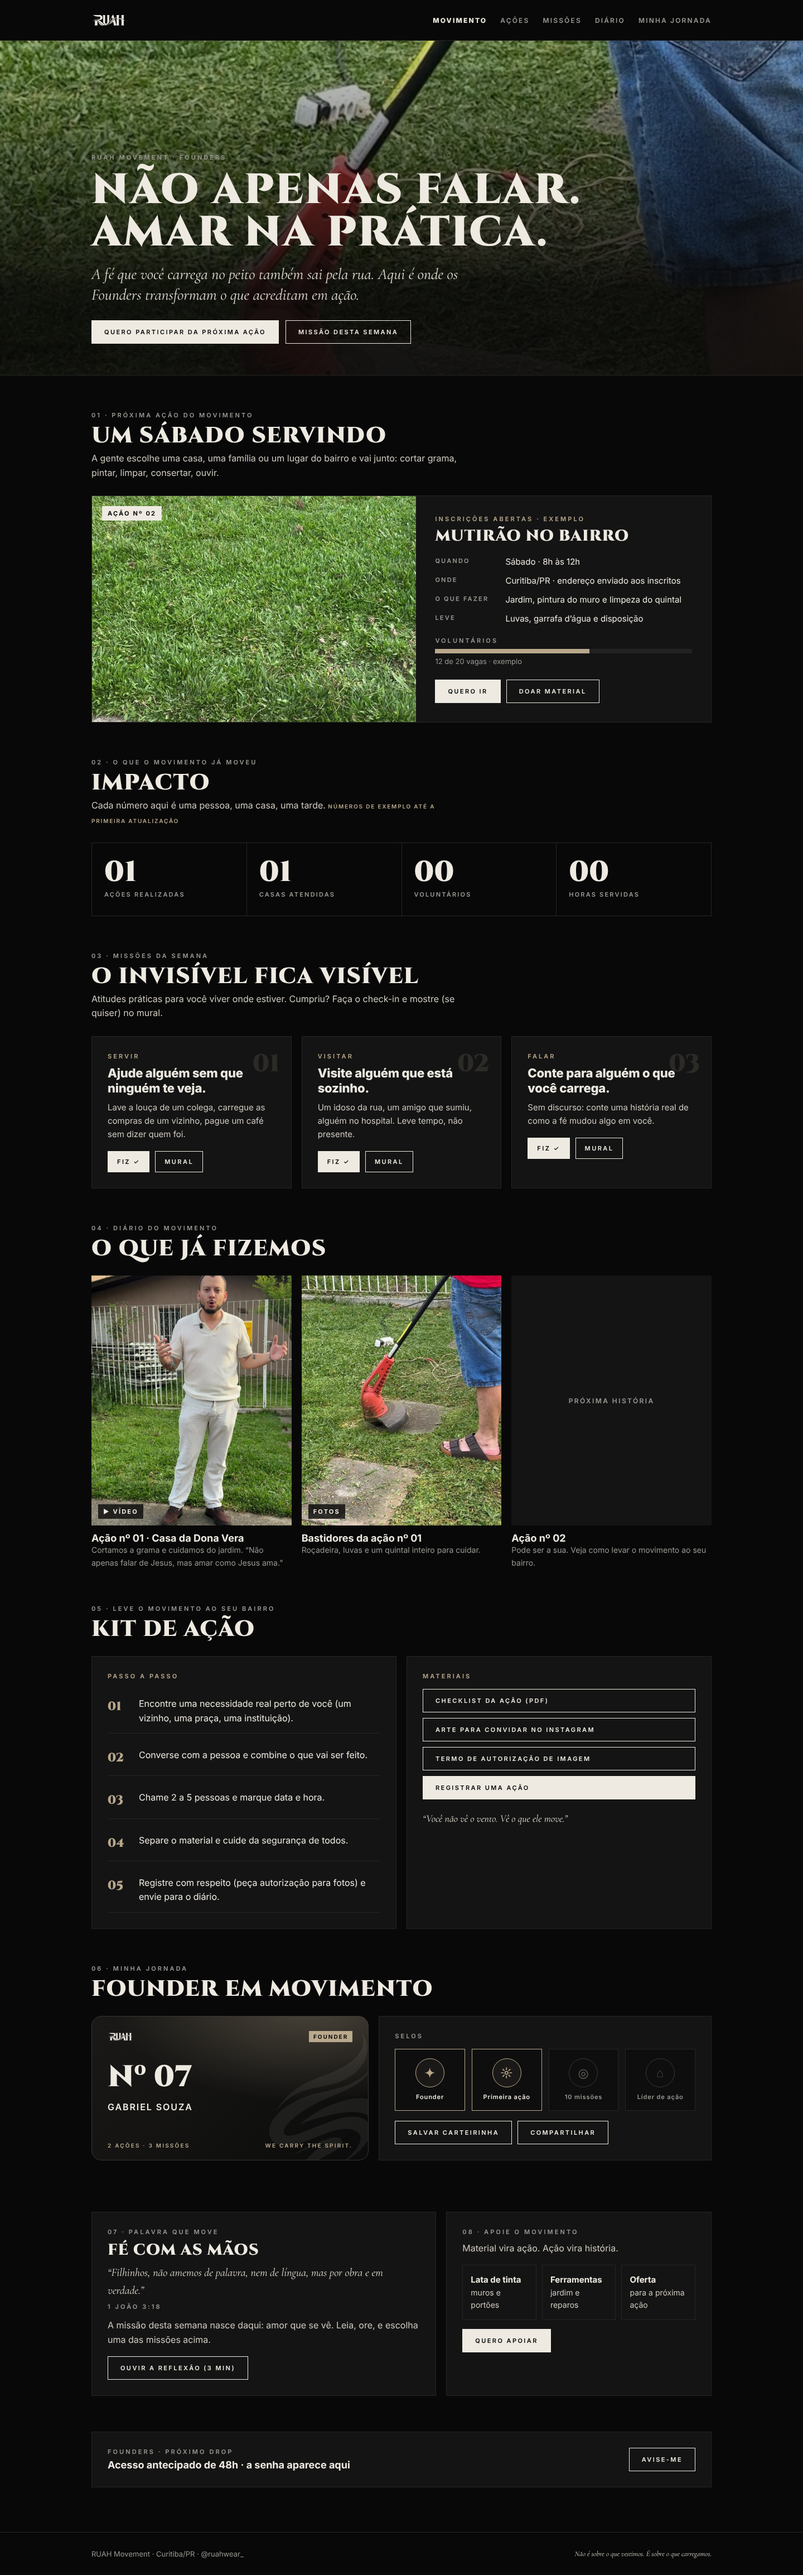
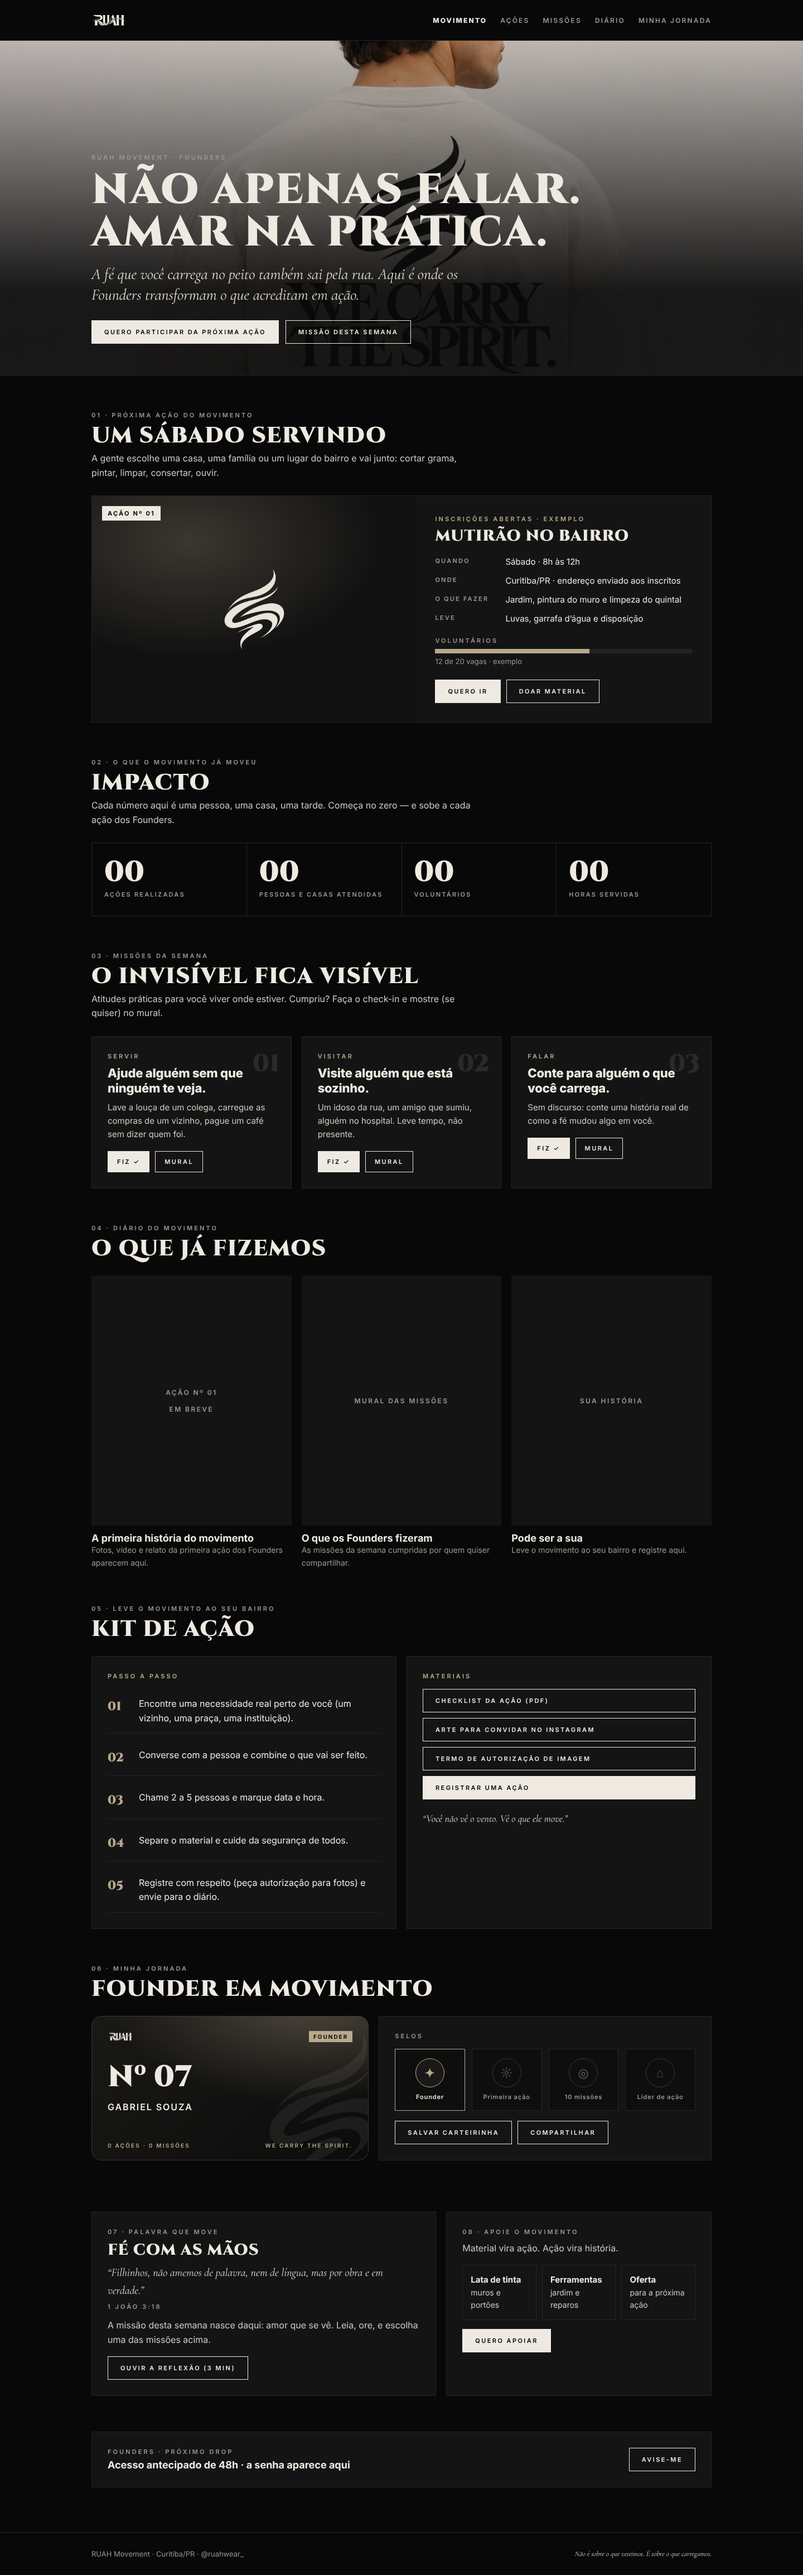
RUAH Founders: remove ação da Dona Vera (não é da RUAH), impacto zerado
Claude-Session: https://claude.ai/code/session_01KxZ3QMQc7vQukPgiLarXU4

diff --git a/ruah/founders/prototipo_movimento.html b/ruah/founders/prototipo_movimento.html
@@ -1,7 +1,7 @@
 <!doctype html><html lang="pt-BR"><head><meta charset="utf-8"><meta name="viewport" content="width=device-width,initial-scale=1">
 <title>RUAH Movement — Founders</title>
 <!-- PROTÓTIPO v2 (16/11): área dos Founders centrada no MOVIMENTO e em ações práticas ("não apenas falar de Jesus, mas amar como Jesus ama").
-     Números de impacto = EXEMPLO (zerados/marcados); a ação na casa da Dona Vera é real (vídeo do Augusto) — confirmar uso. Sem prazo de produção. -->
+     Números de impacto zerados até a 1ª ação real. A ação da Dona Vera NÃO é da RUAH — não usar (Augusto, 16/11). Sem prazo de produção. -->
 <style>
 @font-face{font-family:Cz;font-weight:700;src:url('../fontes/cinzel700.ttf')}@font-face{font-family:Cz;font-weight:900;src:url('../fontes/cinzel900.ttf')}
 @font-face{font-family:CG;font-style:italic;src:url('../fontes/cg400i.ttf')}
@@ -17,11 +17,11 @@
 .card{background:var(--pn);border:1px solid var(--ln);padding:28px}
 header{border-bottom:1px solid var(--ln)}header .w{display:flex;justify-content:space-between;align-items:center;height:72px}header img{height:22px}
 header nav{display:flex;gap:24px;font:600 12px I;letter-spacing:.18em;text-transform:uppercase;color:var(--gy)}header nav b{color:var(--bn)}
-.hero{position:relative;min-height:600px;display:flex;align-items:flex-end;background:linear-gradient(180deg,rgba(8,8,8,.15),rgba(8,8,8,.92) 75%),url('img/acao_grama.jpg') center 30%/cover;border-bottom:1px solid var(--ln)}
+.hero{position:relative;min-height:600px;display:flex;align-items:flex-end;background:linear-gradient(180deg,rgba(8,8,8,.15),rgba(8,8,8,.92) 75%),url('../fotos_produtos/02_WE_CARRY_THE_SPIRIT/02_2_modelo_costas.jpg') center 25%/cover;border-bottom:1px solid var(--ln)}
 .hero .w{padding-bottom:56px;width:100%}.hero h1{font-size:76px;margin:14px 0 18px;max-width:900px}.hero p.it{font-size:28px;max-width:720px;line-height:1.3}
 .sec{padding:64px 0 0}.sec h2{font-size:40px;margin:10px 0 8px}.sec .sub{color:#cfcac0;max-width:680px}
 .next{display:grid;grid-template-columns:1.1fr 1fr;gap:0;margin-top:28px;border:1px solid var(--ln)}
-.next .ph{background:url('img/acao_jardim.jpg') center/cover;min-height:380px;position:relative}.next .ph span{position:absolute;left:18px;top:18px;background:var(--bn);color:var(--bk);font:700 11px I;letter-spacing:.2em;padding:6px 10px}
+.next .ph{background:radial-gradient(500px 300px at 30% 20%,rgba(185,168,140,.25),transparent 70%),#111 url('../marca/logos/simbolo-bone.png') center/120px no-repeat;min-height:380px;position:relative}.next .ph span{position:absolute;left:18px;top:18px;background:var(--bn);color:var(--bk);font:700 11px I;letter-spacing:.2em;padding:6px 10px}
 .next .tx{background:var(--pn);padding:34px}.kv{display:grid;grid-template-columns:110px 1fr;gap:10px 16px;margin:20px 0;font-size:15px}.kv b{font:600 11px I;letter-spacing:.2em;text-transform:uppercase;color:var(--gy);padding-top:3px}
 .bar{height:8px;background:#222;margin:8px 0 4px}.bar i{display:block;height:100%;width:60%;background:var(--tp)}
 .imp{display:grid;grid-template-columns:repeat(4,1fr);gap:1px;background:var(--ln);border:1px solid var(--ln);margin-top:28px}
@@ -64,7 +64,7 @@ footer{border-top:1px solid var(--ln);padding:28px 0;margin-top:80px;color:var(-
  <!-- PRÓXIMA AÇÃO -->
  <section class="sec"><div class="lab">01 · Próxima ação do movimento</div><h2 class="cz">Um sábado servindo</h2>
   <p class="sub">A gente escolhe uma casa, uma família ou um lugar do bairro e vai junto: cortar grama, pintar, limpar, consertar, ouvir.</p>
-  <div class="next"><div class="ph"><span>AÇÃO Nº 02</span></div>
+  <div class="next"><div class="ph"><span>AÇÃO Nº 01</span></div>
    <div class="tx"><div class="lab" style="color:var(--tp)">Inscrições abertas · exemplo</div>
     <h3 class="cz" style="font-size:28px;margin-top:10px">Mutirão no bairro</h3>
     <div class="kv"><b>Quando</b><span>Sábado · 8h às 12h</span><b>Onde</b><span>Curitiba/PR · endereço enviado aos inscritos</span><b>O que fazer</b><span>Jardim, pintura do muro e limpeza do quintal</span><b>Leve</b><span>Luvas, garrafa d’água e disposição</span></div>
@@ -74,8 +74,8 @@ footer{border-top:1px solid var(--ln);padding:28px 0;margin-top:80px;color:var(-
 
  <!-- IMPACTO -->
  <section class="sec"><div class="lab">02 · O que o movimento já moveu</div><h2 class="cz">Impacto</h2>
-  <p class="sub">Cada número aqui é uma pessoa, uma casa, uma tarde. <span class="ex">Números de exemplo até a primeira atualização</span></p>
-  <div class="imp"><div><b>01</b><span>Ações realizadas</span></div><div><b>01</b><span>Casas atendidas</span></div><div><b>00</b><span>Voluntários</span></div><div><b>00</b><span>Horas servidas</span></div></div>
+  <p class="sub">Cada número aqui é uma pessoa, uma casa, uma tarde. Começa no zero — e sobe a cada ação dos Founders.</p>
+  <div class="imp"><div><b>00</b><span>Ações realizadas</span></div><div><b>00</b><span>Pessoas e casas atendidas</span></div><div><b>00</b><span>Voluntários</span></div><div><b>00</b><span>Horas servidas</span></div></div>
  </section>
 
  <!-- MISSÕES -->
@@ -91,9 +91,9 @@ footer{border-top:1px solid var(--ln);padding:28px 0;margin-top:80px;color:var(-
  <!-- DIÁRIO -->
  <section class="sec"><div class="lab">04 · Diário do movimento</div><h2 class="cz">O que já fizemos</h2>
   <div class="diario">
-   <a href="#"><div class="im" style="background-image:url('img/acao_convite.jpg')"><em>▶ VÍDEO</em></div><h4>Ação nº 01 · Casa da Dona Vera</h4><p>Cortamos a grama e cuidamos do jardim. “Não apenas falar de Jesus, mas amar como Jesus ama.”</p></a>
-   <a href="#"><div class="im" style="background-image:url('img/acao_grama.jpg')"><em>FOTOS</em></div><h4>Bastidores da ação nº 01</h4><p>Roçadeira, luvas e um quintal inteiro para cuidar.</p></a>
-   <a href="#"><div class="im" style="background:#141414;display:grid;place-items:center;color:var(--gy);font:600 12px I;letter-spacing:.2em">PRÓXIMA HISTÓRIA</div><h4>Ação nº 02</h4><p>Pode ser a sua. Veja como levar o movimento ao seu bairro.</p></a>
+   <a href="#"><div class="im" style="background:#141414;display:grid;place-items:center;color:var(--gy);font:600 12px I;letter-spacing:.2em;text-align:center;padding:20px">AÇÃO Nº 01<br><br>EM BREVE</div><h4>A primeira história do movimento</h4><p>Fotos, vídeo e relato da primeira ação dos Founders aparecem aqui.</p></a>
+   <a href="#"><div class="im" style="background:#141414;display:grid;place-items:center;color:var(--gy);font:600 12px I;letter-spacing:.2em">MURAL DAS MISSÕES</div><h4>O que os Founders fizeram</h4><p>As missões da semana cumpridas por quem quiser compartilhar.</p></a>
+   <a href="#"><div class="im" style="background:#141414;display:grid;place-items:center;color:var(--gy);font:600 12px I;letter-spacing:.2em">SUA HISTÓRIA</div><h4>Pode ser a sua</h4><p>Leve o movimento ao seu bairro e registre aqui.</p></a>
   </div>
  </section>
 
@@ -113,9 +113,9 @@ footer{border-top:1px solid var(--ln);padding:28px 0;margin-top:80px;color:var(-
  <section class="sec"><div class="lab">06 · Minha jornada</div><h2 class="cz">Founder em movimento</h2>
   <div class="jor">
    <div class="carte"><img class="sim" src="../marca/logos/simbolo-bone.png" alt=""><div style="display:flex;justify-content:space-between;align-items:center"><img src="../marca/logos/logo-bone.png" style="height:16px" alt="RUAH"><span style="font:700 10px I;letter-spacing:.2em;color:var(--bk);background:var(--tp);padding:4px 8px">FOUNDER</span></div>
-    <div class="num">Nº 07</div><div class="nm">Gabriel Souza</div><div class="ft"><span>2 ações · 3 missões</span><span>We carry the spirit.</span></div></div>
+    <div class="num">Nº 07</div><div class="nm">Gabriel Souza</div><div class="ft"><span>0 ações · 0 missões</span><span>We carry the spirit.</span></div></div>
    <div class="card"><div class="lab">Selos</div>
-    <div class="selos"><div class="on"><i>✦</i>Founder</div><div class="on"><i>☼</i>Primeira ação</div><div><i>◎</i>10 missões</div><div><i>⌂</i>Líder de ação</div></div>
+    <div class="selos"><div class="on"><i>✦</i>Founder</div><div><i>☼</i>Primeira ação</div><div><i>◎</i>10 missões</div><div><i>⌂</i>Líder de ação</div></div>
     <div style="margin-top:18px;display:flex;gap:10px;flex-wrap:wrap"><a class="btn" href="#">Salvar carteirinha</a><a class="btn" href="#">Compartilhar</a></div></div>
   </div>
  </section>

diff --git a/CLAUDE.md b/CLAUDE.md
@@ -17,7 +17,7 @@ As regras da seção 1 ("Regras que não podem ser quebradas") valem sempre. Em 
 
 ## Estrutura
 - `ruah/conteudo/PLANO_CONTEUDO_RUAH.md` — plano de conteúdo da RUAH (16/11): 1 post/dia + stories, 4 pilares (Peça, Mensagem, Movimento, Bastidor), semana-modelo, o que o Claude faz × o que o Augusto grava, 14 dias (17–30/11) e decisões pendentes (visual, sessão de fotos). DECIDIDO 16/11: SEM combo "Leve 2" e SEM comunicação de Black Friday na RUAH (nenhum post, story, oferta ou desconto sobre a data).
-- `ruah/founders/` — ÁREA DE MEMBROS DOS FOUNDERS (16/11, pedido do Augusto "área completa"): recomendação = página exclusiva DENTRO da loja Shopify (login da loja; Flow marca cada Founder com a tag "founder" + número), subir sempre como tema NÃO publicado com prévia. Protótipo visual `prototipo_area_founders.html` + `previa_desktop.png`/`previa_celular.png`. Seções: boas-vindas com nome, carteirinha digital (Nº, nome, desde), devocional semanal (versículo, reflexão, desafio, áudio), próximo drop com contagem e senha 48h antes, bastidores, pedido de oração (sigiloso), encontros, grupo do WhatsApp. v1 = "ficou legal, mas não é o que eu penso — precisa comunicar o MOVEMENT com ações práticas" → v2 `prototipo_movimento.html` (prévias `previa_movimento_*.png`): centro = movimento ("Não apenas falar. Amar na prática."): próxima ação com inscrição e vagas, impacto (contadores — números de exemplo até dados reais), missões práticas da semana com check-in e mural, diário de ações (ação nº 01 casa da Dona Vera, com fotos reais), kit para levar o movimento ao bairro (passo a passo, checklist, arte, termo de imagem, registrar ação), jornada com carteirinha + selos, Palavra que move (1 João 3:18), apoio (tinta, ferramentas, oferta), acesso antecipado ao drop. Aguardando aprovação.
+- `ruah/founders/` — ÁREA DE MEMBROS DOS FOUNDERS (16/11, pedido do Augusto "área completa"): recomendação = página exclusiva DENTRO da loja Shopify (login da loja; Flow marca cada Founder com a tag "founder" + número), subir sempre como tema NÃO publicado com prévia. Protótipo visual `prototipo_area_founders.html` + `previa_desktop.png`/`previa_celular.png`. Seções: boas-vindas com nome, carteirinha digital (Nº, nome, desde), devocional semanal (versículo, reflexão, desafio, áudio), próximo drop com contagem e senha 48h antes, bastidores, pedido de oração (sigiloso), encontros, grupo do WhatsApp. v1 = "ficou legal, mas não é o que eu penso — precisa comunicar o MOVEMENT com ações práticas" → v2 `prototipo_movimento.html` (prévias `previa_movimento_*.png`): centro = movimento ("Não apenas falar. Amar na prática."): próxima ação com inscrição e vagas, impacto (contadores — números de exemplo até dados reais), missões práticas da semana com check-in e mural, diário de ações (vazio até a 1ª ação real dos Founders; impacto começa em 00). A AÇÃO DA DONA VERA NÃO É DA RUAH (Augusto, 16/11) — nunca usar em material da marca, kit para levar o movimento ao bairro (passo a passo, checklist, arte, termo de imagem, registrar ação), jornada com carteirinha + selos, Palavra que move (1 João 3:18), apoio (tinta, ferramentas, oferta), acesso antecipado ao drop. Aguardando aprovação.
 - `ruah/` — pacote da marca (logos, fontes, fotos de produto, conteúdo, vídeos, textos, scripts).
   - `ruah/scripts/` usa caminhos da sessão antiga; ajuste `SP` e os caminhos de fontes/logos antes de rodar.
 
